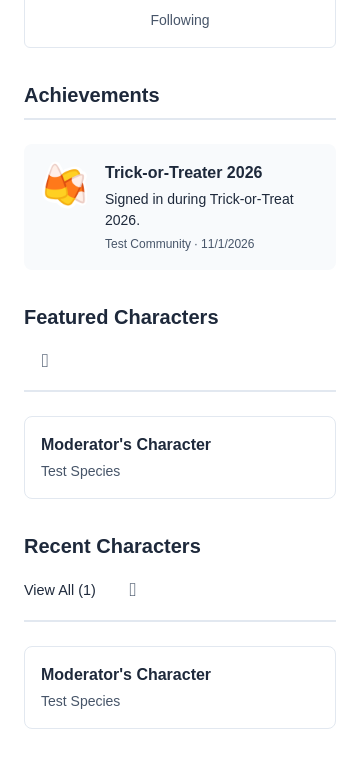
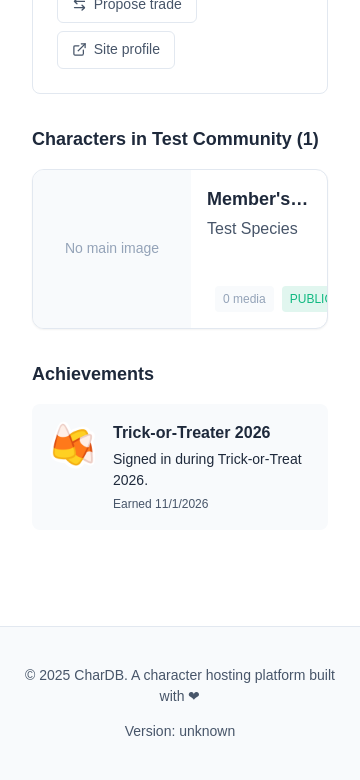
docs(achievements): show achievements on the community member profile

diff --git a/docs/docs/achievements.html b/docs/docs/achievements.html
@@ -6,7 +6,7 @@
     <title>Achievements - Feature Walkthrough</title>
     <meta
       name="description"
-      content="Earn achievements in your communities, like Trick-or-Treater 2026 for signing in during the Halloween event, and see them on anyone's profile."
+      content="Earn achievements in a community, like Trick-or-Treater 2026 for signing in during the Halloween event, and see them on members' profiles there."
     />
     <link
       rel="canonical"
@@ -17,7 +17,7 @@
     <meta property="og:title" content="Achievements" />
     <meta
       property="og:description"
-      content="Earn achievements in your communities, like Trick-or-Treater 2026 for signing in during the Halloween event, and see them on anyone's profile."
+      content="Earn achievements in a community, like Trick-or-Treater 2026 for signing in during the Halloween event, and see them on members' profiles there."
     />
     <meta
       property="og:url"
@@ -29,7 +29,7 @@
     />
     <meta
       property="og:image:alt"
-      content="A profile with an Achievements section showing Trick-or-Treater 2026, earned in Test Community."
+      content="A community member profile with an Achievements section showing Trick-or-Treater 2026."
     />
     <meta name="twitter:card" content="summary_large_image" />
     <style>
@@ -195,7 +195,7 @@
     <div class="container">
       <header>
         <h1>Achievements</h1>
-        <p>Badges you earn in your communities, shown on your profile.</p>
+        <p>Badges you earn in a community, shown on your profile there.</p>
       </header>
 
       <!-- Overview -->
@@ -208,7 +208,7 @@
           <p>
             Communities hand out achievements for taking part in what they run.
             Each one belongs to the community it was earned in, and stays on
-            your profile for good.
+            your member profile there for good.
           </p>
           <p>
             The first is <strong>Trick-or-Treater 2026</strong>, for members who
@@ -219,9 +219,11 @@
         <div class="screenshot wide">
           <img
             src="achievements-profile.png"
-            alt="The profile of @moderator. Below the stats is an Achievements section with one card: a candy corn picture, Trick-or-Treater 2026, Signed in during Trick-or-Treat 2026, and Test Community · 11/1/2026."
+            alt="Moderator's member profile in Test Community. Below Characters in Test Community is an Achievements section with one card: a candy corn picture, Trick-or-Treater 2026, Signed in during Trick-or-Treat 2026, and Earned 11/1/2026."
           />
-          <div class="screenshot-caption">An achievement on a profile</div>
+          <div class="screenshot-caption">
+            An achievement on a community member profile
+          </div>
         </div>
       </div>
 
@@ -270,20 +272,23 @@
         </div>
         <div class="step-content">
           <p>
-            Open any profile, yours from <strong>My Profile</strong> in the
-            sidebar or someone else's from their name.
-            <strong>Achievements</strong> sits under the stats, newest first.
-            Each card shows the community it was earned in and when.
+            In the community, open <strong>Members</strong> in the sidebar and
+            pick a name, yours included. <strong>Achievements</strong> sits at
+            the bottom of their member profile, newest first, each with the date
+            it was earned.
           </p>
-          <p>Anyone can see them, signed in or not.</p>
+          <p>
+            A member profile shows only what was earned in that community, and
+            only to its members.
+          </p>
         </div>
         <div class="screenshot wide">
           <img
             src="achievements-dark.png"
-            alt="Another member's profile, @member, in dark mode, with a Follow button and the same Trick-or-Treater 2026 card under Achievements."
+            alt="Member's profile in Test Community, in dark mode, with Inventory, Propose trade and Site profile buttons, and the same Trick-or-Treater 2026 card under Achievements."
           />
           <div class="screenshot-caption">
-            Someone else's profile, in dark mode
+            Another member's profile, in dark mode
           </div>
         </div>
         <div class="step-content">
@@ -292,7 +297,7 @@
         <div class="screenshot narrow">
           <img
             src="achievements-phone.png"
-            alt="The Achievements section at phone width: one card with the candy corn picture beside its name, description, community and date."
+            alt="The Achievements section at phone width: one card with the candy corn picture beside its name, description and date."
           />
           <div class="screenshot-caption">At 360px wide</div>
         </div>

diff --git a/docs/docs/halloween-event.html b/docs/docs/halloween-event.html
@@ -709,8 +709,8 @@
           <p>
             Members who sign in to CharDB while the event is on earn
             <strong>Trick-or-Treater 2026</strong> in your community. It shows
-            under <strong>Achievements</strong> on their profile, with your
-            community's name and the date they earned it. See
+            under <strong>Achievements</strong> on their member profile in your
+            community, with the date they earned it. See
             <a href="achievements.html">Achievements</a> for the walkthrough.
           </p>
           <p>

diff --git a/docs/index.html b/docs/index.html
@@ -480,7 +480,7 @@
               <h3>Achievements</h3>
               <p>
                 Earning Trick-or-Treater 2026 by signing in during the Halloween
-                event, and seeing achievements on profiles.
+                event, and seeing achievements on community member profiles.
               </p>
             </div>
           </a>
